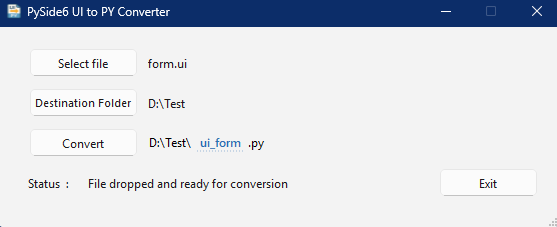
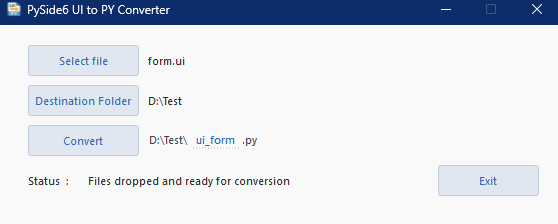
feat: automatic system theme support (dark/light) for v1.4

diff --git a/ui2py.py b/ui2py.py
@@ -304,8 +304,10 @@ class MainWindow(QMainWindow):
 # ------------------------------- main -------------------------------
 def main():
     app = QApplication(sys.argv)
-    load_qss(app=app)
+    load_qss(app, "system")
+    app.styleHints().colorSchemeChanged.connect(lambda _: load_qss(app, "system")) # for system change
     app.setQuitOnLastWindowClosed(True)
+    app.setWindowIcon(QIcon(ICON_PATH))
 
     window = MainWindow()
     if sys.platform.startswith("win"):
@@ -318,9 +320,16 @@ def rsrc(p: str) -> str:
     base = getattr(sys, "_MEIPASS", Path(__file__).parent)
     return str(Path(base) / "assets" / p)
 
-def load_qss(app, filename="style.qss"):
-    with open(rsrc(f"styles/{filename}"), "r", encoding="utf-8") as f:
-        app.setStyleSheet(f.read())
+def load_qss(app: QApplication, mode: str = "system"):
+    if mode == "system":
+        scheme = app.styleHints().colorScheme()
+        is_dark = (scheme == Qt.ColorScheme.Dark)
+    else:
+        is_dark = (mode.lower() == "dark")
+
+    qss_path = Path(rsrc(f"styles/{'dark_style.qss' if is_dark else 'light_style.qss'}"))
+    app.setStyleSheet(qss_path.read_text(encoding="utf-8"))
+
 
 # OS-specific icon
 if sys.platform.startswith("win"):

diff --git a/README.md b/README.md
@@ -3,17 +3,16 @@
 A simple yet powerful GUI tool to convert one or **multiple** Qt Designer `.ui` files into Python code using **PySide6**.
 
 
+## ✨ What's New (v1.4)
+- ✅ **Automatic dark/light theme support:** The app now adapts to your system's theme preference at launch and updates in real time.
 
-## ✨ What's New (v1.3)
-- ✅ **Multi-file batch conversion:** You can now select and convert multiple `.ui` files at once!
+## 📦 Version (v1.3)
+- **Multi-file batch conversion:** You can now select and convert multiple `.ui` files at once!
   - Drag and drop multiple `.ui` files into the window — they’ll be listed automatically.
   - Each file is converted into `ui_<filename>.py` by default.
-  
-- ✅ **Dynamic UI resizing:** The window expands to show a file list when multiple files are dropped.
-
-- ✅ **Smart output naming:** For batch conversion, each file is auto-named. For single file mode, you can manually edit the name.
-
-- ✅ **Improved status feedback:** Clear, context-aware messages for both single and multiple file workflows.
+- **Dynamic UI resizing:** The window expands to show a file list when multiple files are dropped.
+- **Smart output naming:** For batch conversion, each file is auto-named. For single file mode, you can manually edit the name.
+- **Improved status feedback:** Clear, context-aware messages for both single and multiple file workflows.
 
 ## 📦 Version (v1.2)
 - **Drag & drop** `.ui` files directly into the window — instantly ready for conversion.
@@ -116,7 +115,7 @@ python ui2py.py
 | ✅ v1.1  | Released | Error handling, icon/taskbar visibility fix |
 | ✅ v1.2  | Released | Drag-and-drop support for `.ui` files |
 | ✅ v1.3  | Released | Multi-file batch conversion |
-| ⬜ v1.4  | Planned  | Automatic dark/light mode |
+| ✅ v1.4  | Released  | Automatic dark/light mode |
 
 
 ## 📄 License
